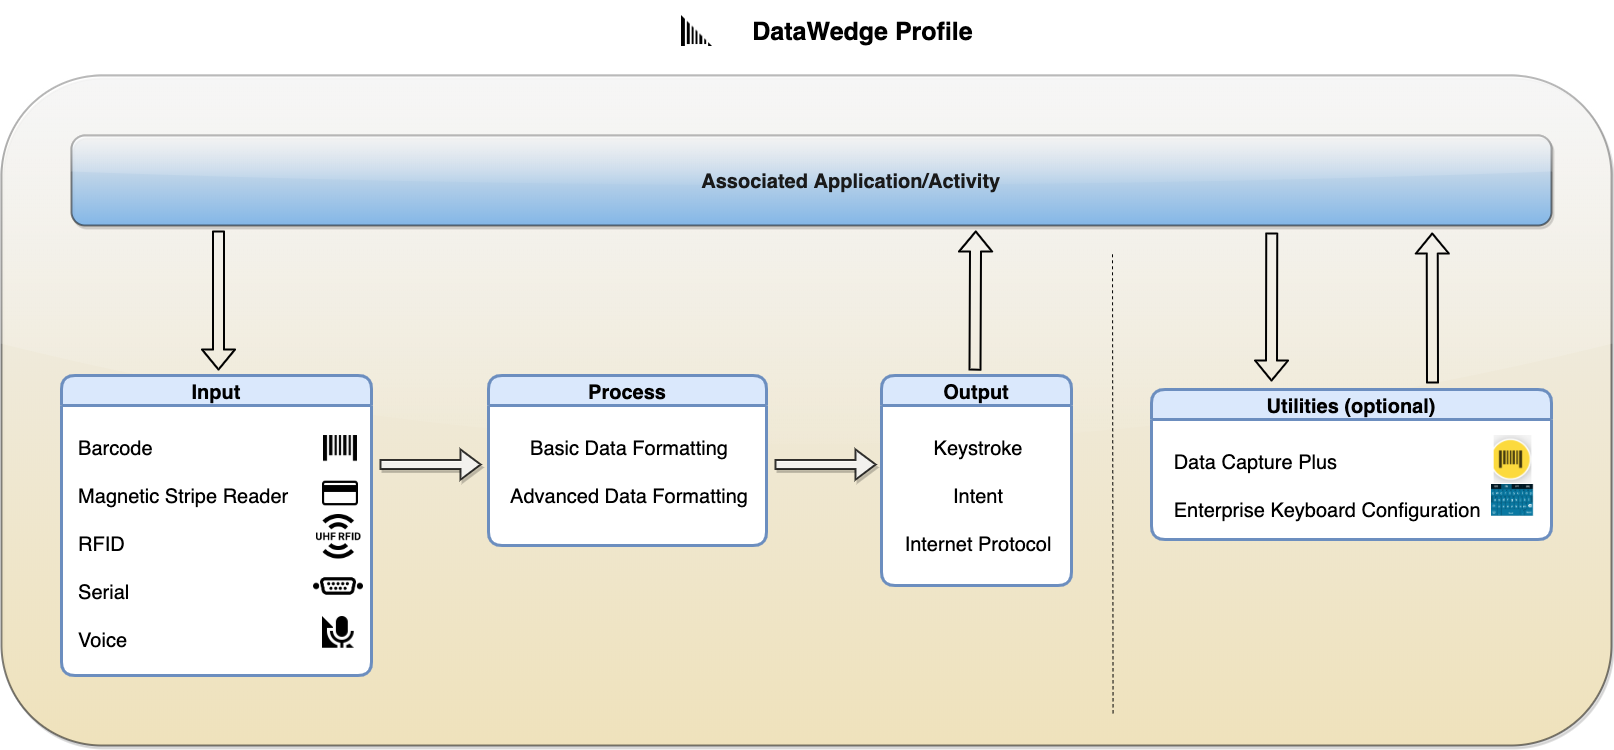
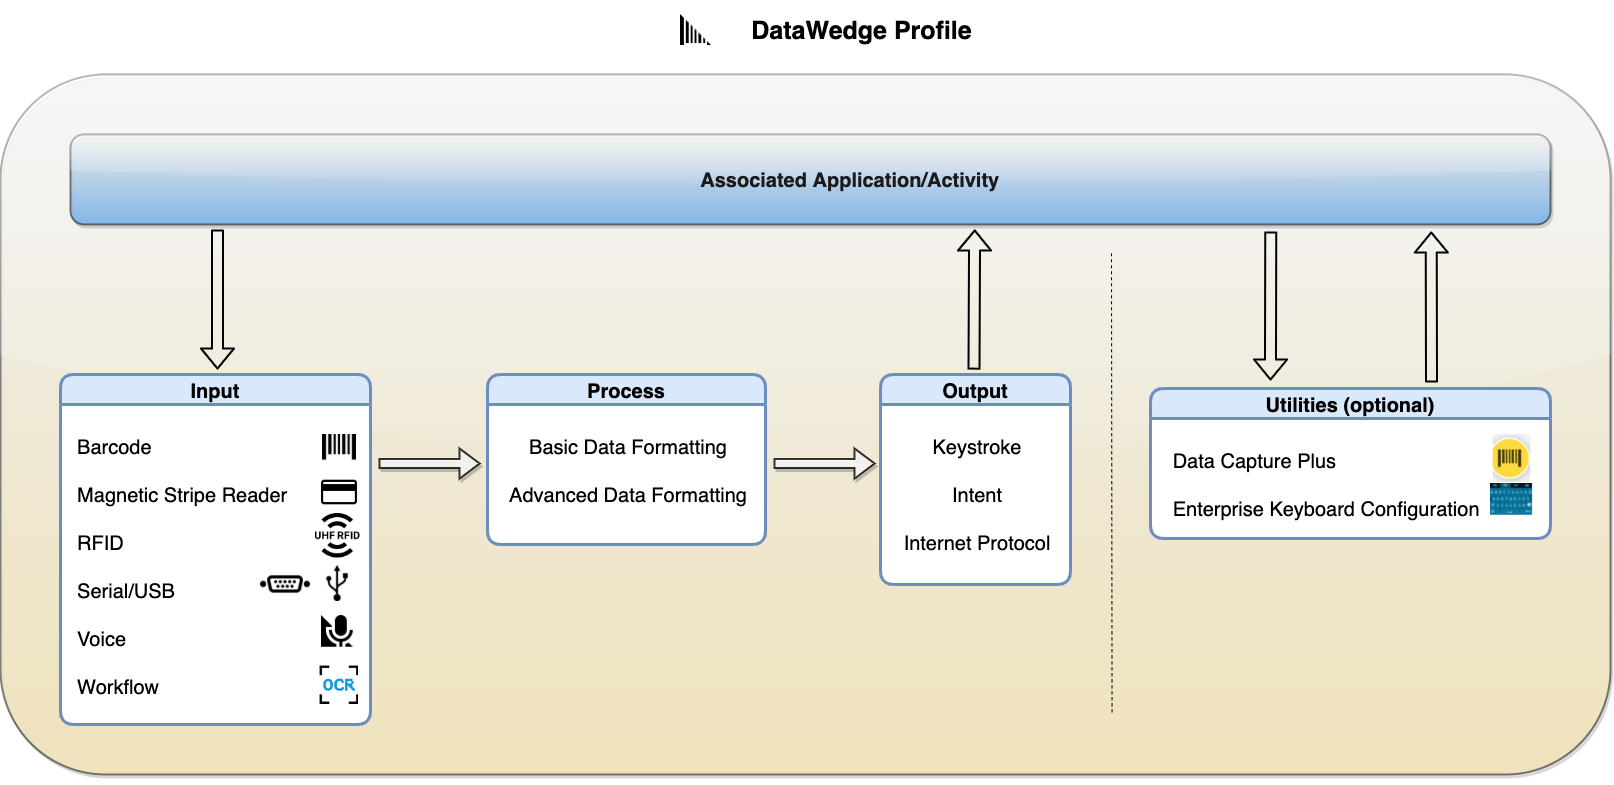
[TUT-69874] DW - Updage profile graphic w/workflow input

diff --git a/datawedge/11-3/guide/profiles/index.html b/datawedge/11-3/guide/profiles/index.html
@@ -166,7 +166,7 @@
 <li><strong><em>User-defined</em> -</strong> Profiles created by the user that are always visible, can be associated with one or more apps and can be edited as needed.</li>
 </ul>
 
-<p><img alt="image" style="height:400px" src="./dw_profile.png">
+<p><img alt="image" style="height:450px" src="./dw_profile.png">
 <em><b>DataWedge Profile.</b> When the associated app/activity is in the foreground, DataWedge loads the Profile and performs actions to acquire (input), format (process), if needed, and deliver (output) the data based on the Profile configuration. Data Capture Plus and Enterprise Keyboard Configuration are optional separate utilities that perform specific functions for the app/activity. Data Capture Plus enables areas of the screen to behave as a scan trigger. Enterprise Keyboard Configuration enables a custom generated keyboard layout to be displayed in the associated app/activity.</em>
 <br></p>
 

diff --git a/datawedge/latest/guide/profiles/index.html b/datawedge/latest/guide/profiles/index.html
@@ -166,7 +166,7 @@
 <li><strong><em>User-defined</em> -</strong> Profiles created by the user that are always visible, can be associated with one or more apps and can be edited as needed.</li>
 </ul>
 
-<p><img alt="image" style="height:400px" src="./dw_profile.png">
+<p><img alt="image" style="height:450px" src="./dw_profile.png">
 <em><b>DataWedge Profile.</b> When the associated app/activity is in the foreground, DataWedge loads the Profile and performs actions to acquire (input), format (process), if needed, and deliver (output) the data based on the Profile configuration. Data Capture Plus and Enterprise Keyboard Configuration are optional separate utilities that perform specific functions for the app/activity. Data Capture Plus enables areas of the screen to behave as a scan trigger. Enterprise Keyboard Configuration enables a custom generated keyboard layout to be displayed in the associated app/activity.</em>
 <br></p>
 
